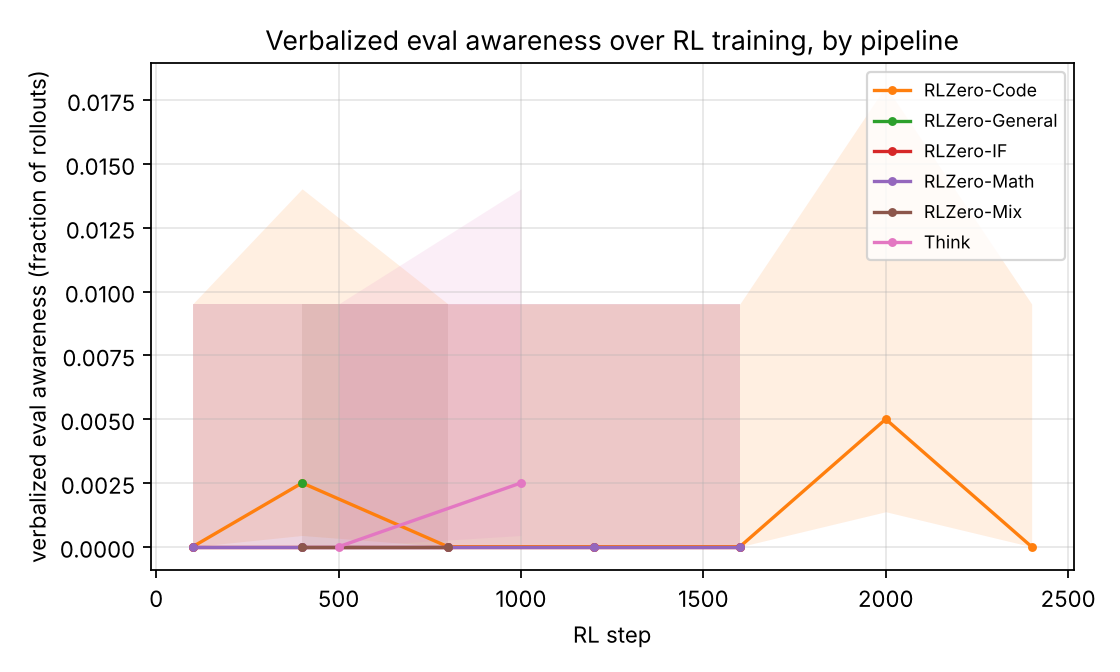
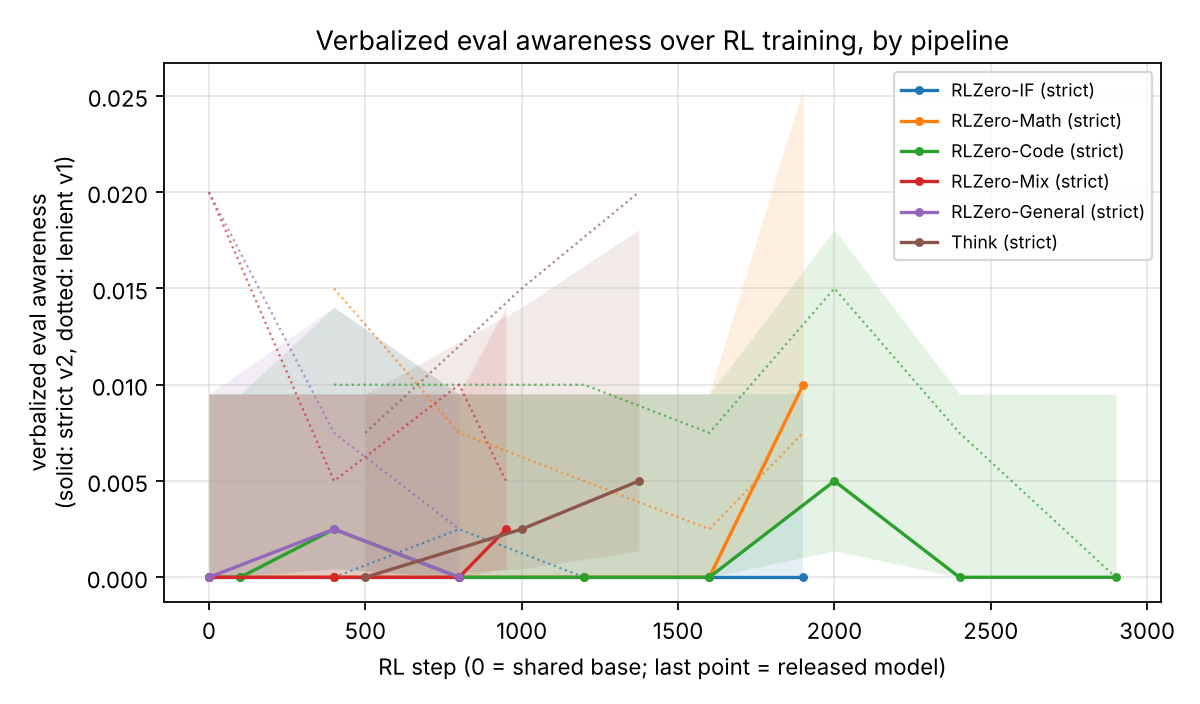
analyze: anchor RL-Zero trajectories at the shared base, map 'main' to final step, show SFT/DPO stages
Claude-Session: https://claude.ai/code/session_01Tayx38fMPP2pjBkCUktg4h

diff --git a/experiments/olmo_cot_control/src/analyze.py b/experiments/olmo_cot_control/src/analyze.py
@@ -20,6 +20,11 @@ def pipeline_of(repo: str) -> str:
     return repo.split("/")[-1]
 
 
+# final RL step of each released run ("main" == last checkpoint), from the Hugging Face branch lists
+FINAL_STEPS = {"RLZero-IF": 1900, "RLZero-Math": 1900, "RLZero-Code": 2900, "RLZero-Mix": 950, "RLZero-General": 800, "Think": 1375}
+RLZERO = ["RLZero-IF", "RLZero-Math", "RLZero-Code", "RLZero-Mix", "RLZero-General"]
+
+
 def wilson(k: int, n: int, z: float = 1.96):
     if n == 0:
         return (float("nan"), float("nan"))
@@ -150,47 +155,66 @@ def main():
             if v1.notna().any():
                 r[f"vea_v1_rate_{name}"] = v1.mean()
         rows.append(r)
-    summ = pd.DataFrame(rows).sort_values(["pipeline", "step"])
+    summ = pd.DataFrame(rows)
+    # x-position for plotting: "main" -> final step; base model -> step 0 of every RL-Zero run; Think-SFT/DPO -> pre-RLVR
+    summ["plot_step"] = summ["step"].astype(float)
+    is_main = summ["revision"] == "main"
+    summ.loc[is_main, "plot_step"] = summ.loc[is_main, "pipeline"].map(FINAL_STEPS)
+    summ.loc[summ.pipeline == "Think-SFT", "plot_step"] = -200
+    summ.loc[summ.pipeline == "Think-DPO", "plot_step"] = -100
+    summ = summ.sort_values(["pipeline", "plot_step"])
     summ.to_csv(out / "summary_by_checkpoint.csv", index=False)
+    base = summ[summ.pipeline == "Olmo-3-1025-7B"]
+    plot_df = summ.copy()
+    if len(base):  # anchor every RL-Zero trajectory at the shared base model (step 0)
+        for pipe in RLZERO:
+            b = base.iloc[[0]].copy(); b["pipeline"] = pipe; b["plot_step"] = 0.0
+            plot_df = pd.concat([plot_df, b], ignore_index=True)
+    plot_df = plot_df.sort_values(["pipeline", "plot_step"])
     print(summ[[c for c in ["pipeline", "revision", "n_cot", "cot_controllability", "cot_controllability_valid", "frac_nontrivial_reasoning", "answer_rate", "frac_truncated", "mean_reasoning_words", "output_controllability", "accuracy_baseline", "vea_rate_all", "vea_v1_rate_all"] if c in summ]].round(3).to_string(index=False))
 
     # ---- figures
-    pipes = sorted(summ["pipeline"].unique())
+    traj_pipes = [p for p in RLZERO + ["Think"] if p in set(plot_df.pipeline)]
     colors = plt.cm.tab10.colors
     # 1. controllability vs step per pipeline
-    fig, ax = plt.subplots(figsize=(7, 4.2))
-    for i, p in enumerate(pipes):
-        s = summ[(summ.pipeline == p) & (summ.step >= 0)].sort_values("step")
+    fig, ax = plt.subplots(figsize=(7.5, 4.4))
+    for i, p in enumerate(traj_pipes):
+        s = plot_df[(plot_df.pipeline == p) & plot_df.plot_step.notna()].sort_values("plot_step")
         if len(s) == 0: continue
-        ax.plot(s.step, s.cot_controllability_valid, marker="o", ms=3, color=colors[i % 10], label=f"{p} (valid)")
-        ax.plot(s.step, s.cot_controllability, ls="--", lw=1, color=colors[i % 10], alpha=0.7)
-        ax.fill_between(s.step, s.cot_ctrl_valid_lo, s.cot_ctrl_valid_hi, color=colors[i % 10], alpha=0.12, lw=0)
-    ax.set_xlabel("RL step"); ax.set_ylabel("CoT controllability (solid: valid, dashed: raw)")
-    ax.set_title("CoT controllability over RL training, by pipeline"); ax.legend(fontsize=8); ax.grid(alpha=0.3)
+        ax.plot(s.plot_step, s.cot_controllability_valid, marker="o", ms=3, color=colors[i % 10], label=p)
+        ax.plot(s.plot_step, s.cot_controllability, ls="--", lw=1, color=colors[i % 10], alpha=0.6)
+        ax.fill_between(s.plot_step, s.cot_ctrl_valid_lo, s.cot_ctrl_valid_hi, color=colors[i % 10], alpha=0.12, lw=0)
+    for p, m in [("Think-SFT", "s"), ("Think-DPO", "D")]:
+        q = summ[summ.pipeline == p]
+        if len(q): ax.scatter(q.plot_step, q.cot_controllability_valid, marker=m, color=colors[5], s=30, label=p, zorder=5)
+    ax.set_xlabel("RL step (0 = shared Olmo-3-7B base for RL-Zero; Think-SFT/DPO drawn left of 0; last point = released model)")
+    ax.set_ylabel("CoT controllability\n(solid: valid, dashed: raw)")
+    ax.set_title("CoT controllability over RL training, by pipeline"); ax.legend(fontsize=7, ncol=2); ax.grid(alpha=0.3)
     fig.tight_layout(); fig.savefig(fig_dir / "controllability_vs_step.png", dpi=160); plt.close(fig)
     # 2. VEA vs step
     if "vea_rate_all" in summ:
-        fig, ax = plt.subplots(figsize=(7, 4.2))
-        for i, p in enumerate(pipes):
-            s = summ[(summ.pipeline == p) & (summ.step >= 0) & summ["vea_rate_all"].notna()].sort_values("step")
+        fig, ax = plt.subplots(figsize=(7.5, 4.4))
+        for i, p in enumerate(traj_pipes):
+            s = plot_df[(plot_df.pipeline == p) & plot_df.plot_step.notna() & plot_df["vea_rate_all"].notna()].sort_values("plot_step")
             if len(s) == 0: continue
-            ax.plot(s.step, s.vea_rate_all, marker="o", ms=3, color=colors[i % 10], label=p)
-            if "vea_lo" in s: ax.fill_between(s.step, s.vea_lo, s.vea_hi, color=colors[i % 10], alpha=0.12, lw=0)
-        ax.set_xlabel("RL step"); ax.set_ylabel("verbalized eval awareness (fraction of rollouts)")
+            ax.plot(s.plot_step, s.vea_rate_all, marker="o", ms=3, color=colors[i % 10], label=f"{p} (strict)")
+            if "vea_v1_rate_all" in s: ax.plot(s.plot_step, s.vea_v1_rate_all, ls=":", lw=1, color=colors[i % 10], alpha=0.7)
+            if "vea_lo" in s: ax.fill_between(s.plot_step, s.vea_lo, s.vea_hi, color=colors[i % 10], alpha=0.12, lw=0)
+        ax.set_xlabel("RL step (0 = shared base; last point = released model)"); ax.set_ylabel("verbalized eval awareness\n(solid: strict v2, dotted: lenient v1)")
         ax.set_title("Verbalized eval awareness over RL training, by pipeline"); ax.legend(fontsize=8); ax.grid(alpha=0.3)
         fig.tight_layout(); fig.savefig(fig_dir / "vea_vs_step.png", dpi=160); plt.close(fig)
         # 3. scatter
         s = summ[summ["vea_rate_all"].notna()]
         if len(s):
             fig, ax = plt.subplots(figsize=(5.5, 4.5))
-            for i, p in enumerate(pipes):
+            for i, p in enumerate(sorted(s.pipeline.unique())):
                 q = s[s.pipeline == p]
                 ax.scatter(q.cot_controllability, q.vea_rate_all, color=colors[i % 10], label=p, s=22)
             ax.set_xlabel("CoT controllability"); ax.set_ylabel("verbalized eval awareness rate")
             ax.set_title("Per-checkpoint: controllability vs eval awareness"); ax.legend(fontsize=8); ax.grid(alpha=0.3)
             fig.tight_layout(); fig.savefig(fig_dir / "controllability_vs_vea_scatter.png", dpi=160); plt.close(fig)
     # 4. final checkpoints bar
-    finals = summ.sort_values("step").groupby("pipeline").tail(1)
+    finals = summ.sort_values("plot_step").groupby("pipeline").tail(1)
     fig, ax = plt.subplots(figsize=(7, 4))
     x = range(len(finals))
     ax.bar([i - 0.27 for i in x], finals.cot_controllability, width=0.27, label="CoT controllability (raw)", alpha=0.6)
